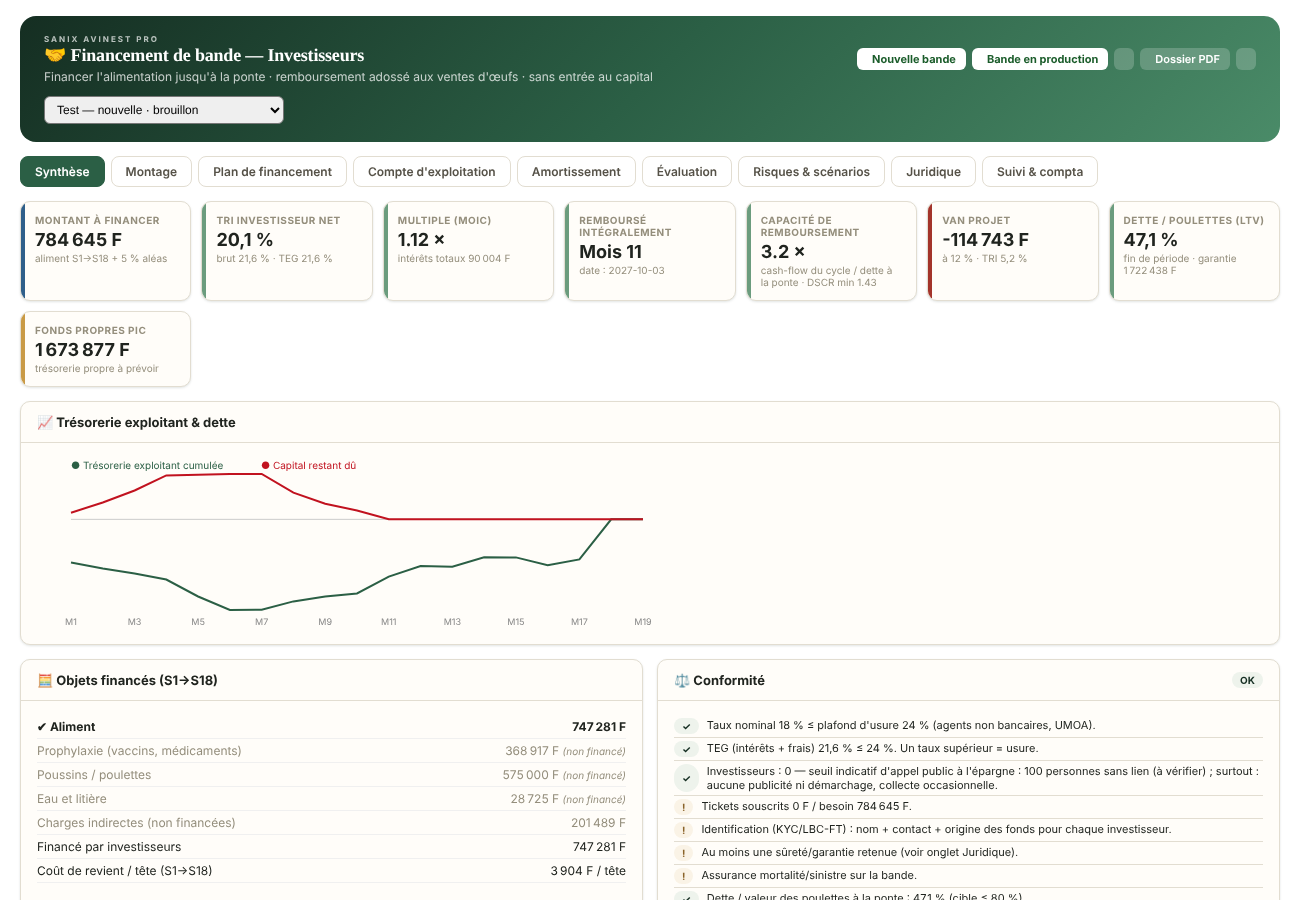
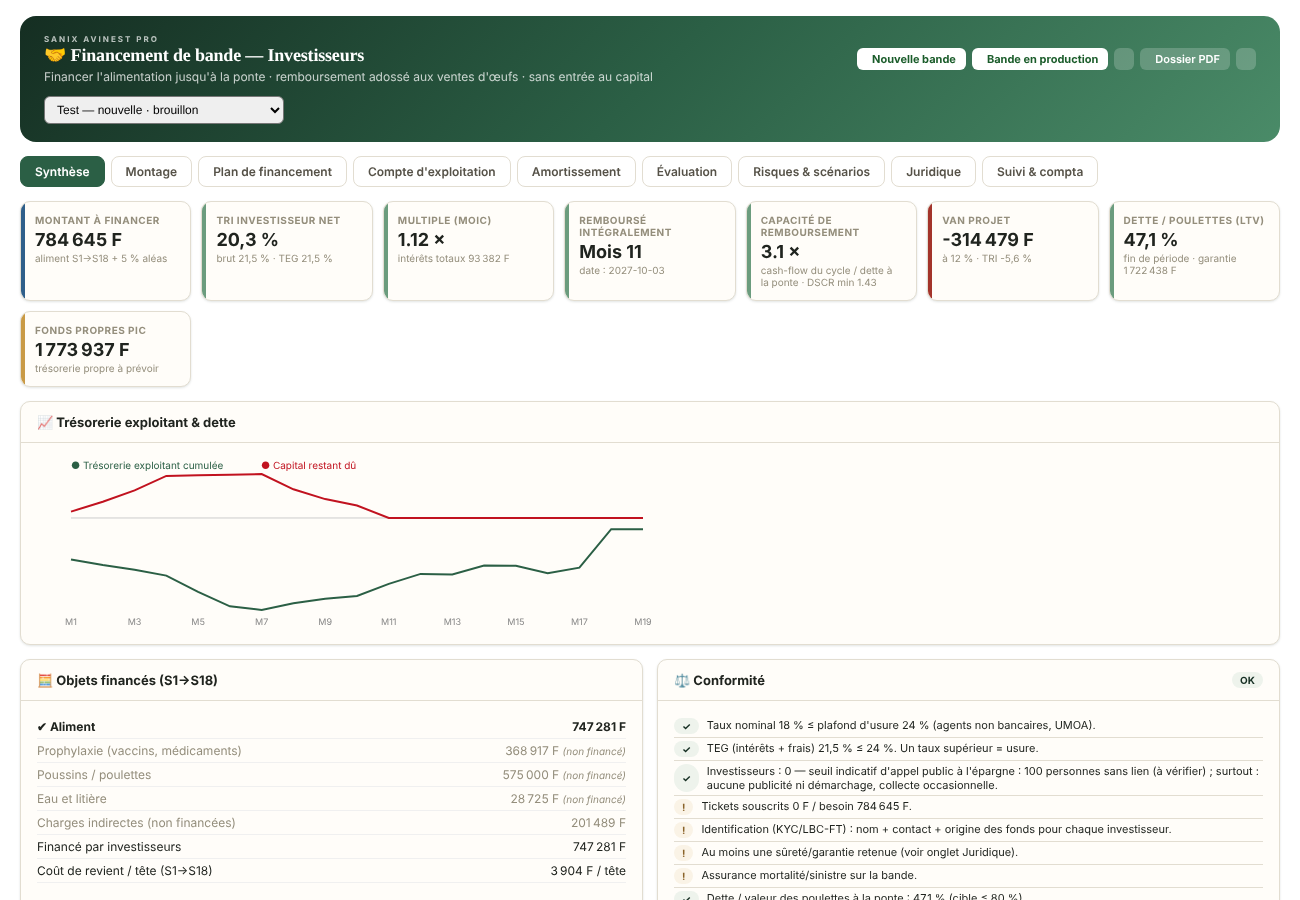
feat(simu,finbande): mix de calibres des œufs selon l'âge de ponte (#13)
* feat(finbande): module Financement de bande par investisseurs (amortissement, évaluation, risques, juridique, compta SYSCOHADA) + besoin de financement dans la Simulation

Claude-Session: https://claude.ai/code/session_01XGyegJwan1hozCysUqiur2

* fix(finbande): collision de nom finTab avec le module Finance (onglets inopérants)

Claude-Session: https://claude.ai/code/session_01XGyegJwan1hozCysUqiur2

* feat(simu): poulette 1150 F et casse 1,5 % (calibrage ferme-jolan)

Claude-Session: https://claude.ai/code/session_01XGyegJwan1hozCysUqiur2

* feat(finance): répartition persistée des ventes sans lot par lot pondeuse (prorata œufs sur 10 j avant livraison), annulable

Claude-Session: https://claude.ai/code/session_01XGyegJwan1hozCysUqiur2

* feat(finbande): financement d'une bande en production (lot réel) + type chair

Portée nouvelle bande / bande en production, pondeuses ou poulet de chair.
Bande en production : projection recalée sur le lot réel (âge, effectif vivant,
ponte et consommation sur 30 j). Noms de dossiers numérotés.

Claude-Session: https://claude.ai/code/session_01XGyegJwan1hozCysUqiur2

* feat(finbande): compte d'exploitation prévisionnel + investissements matériels

Claude-Session: https://claude.ai/code/session_01XGyegJwan1hozCysUqiur2

* feat(simu): prix aliment réels (300-350 F/kg) et âge de réforme paramétrable (défaut 72 sem.)

Claude-Session: https://claude.ai/code/session_01XGyegJwan1hozCysUqiur2
[…]

diff --git a/index.html b/index.html
@@ -23042,6 +23042,8 @@ const SIMU_DEFAULTS = {
   tauxPonteMoy: 85,         // % moyen
   tauxCasse: 1.5,           // % œufs cassés/déclassés (réel ≈ 1,3 %)
   dureeExploitation: 14,    // semaines de ponte exploitées en simu
+  mixCalibres: true,        // pondeuse : calibre des œufs selon l'âge de ponte (petits œufs en début de ponte, moins chers)
+  ratioPetit: 77,           // prix du petit calibre en % du gros (réel : 20 400 / 26 400 F le carton)
   semReforme: 72            // pondeuses : âge de réforme (semaines) — pratique courante 72-80 ; 60 = ancien cycle court
 };
 
@@ -23064,6 +23066,21 @@ const PHASES_LAYER = [
   {id:'reforme',    label:'Réforme',           semDeb:57, semFin:60, icon:'🔄', color:'#fee2e2', border:'#dc2626', feedGPD:108, mortalitePhasePct:0.5,  ponteFactor:0.00}
 ];
 
+// Calibre des œufs : part de petits œufs selon l'âge de la poule (semaine de vie), interpolation linéaire.
+var CAL_PETIT=[[19,0.80],[24,0.60],[28,0.35],[31,0.19],[35,0.04],[39,0.007],[45,0.005]];
+function simuPartPetit(w,p){
+  if(!p||p.mixCalibres===false||p.typeLot!=='layer') return 0;
+  var c=CAL_PETIT; if(w<=c[0][0]) return c[0][1]; if(w>=c[c.length-1][0]) return c[c.length-1][1];
+  for(var i=1;i<c.length;i++){ if(w<=c[i][0]){ var a=c[i-1], b=c[i]; return a[1]+(b[1]-a[1])*(w-a[0])/(b[0]-a[0]); } }
+  return 0;
+}
+// Prix moyen de l'œuf à une semaine donnée (prixOeufUnit = prix du gros calibre)
+function simuPrixOeufSem(p,w){ return p.prixOeufUnit*(1-simuPartPetit(w,p)*(1-(p.ratioPetit||77)/100)); }
+// Prix moyen sur une phase, pondéré par la ponte de chaque semaine
+function simuPrixOeufPhase(p,ph){
+  var sw=0, sp=0; for(var w=ph.semDeb;w<=ph.semFin;w++){ var f=finFactor(w,ph,'lisse')||0; if(f<=0) continue; sw+=f; sp+=f*simuPrixOeufSem(p,w); }
+  return sw>0?sp/sw:p.prixOeufUnit;
+}
 // Cycle pondeuse à durée variable : la phase « ponte soutenue » s'allonge, la réforme occupe les 4 dernières semaines.
 var _phasesLayerCache={};
 function simuPhasesLayer(sr){
@@ -23087,6 +23104,7 @@ function simuCalcBande(p){
   const rows = [];
   let cumCoutDirect = 0, cumCoutIndirect = 0, cumRecette = 0;
   let cumOeufs = 0; // total œufs sur le cycle (pondeuse uniquement)
+  let cumRecOeufs = 0, cumOeufsVendus = 0;
 
   // Coût poussin/poulette différencié par type
   const coutUnitInitial = p.typeLot === 'layer' ? (p.coutPoussineLayer || p.coutPoussin) : p.coutPoussin;
@@ -23175,7 +23193,9 @@ function simuCalcBande(p){
       // Effectif moyen sur la phase pour le calcul d'œufs
       const effectifMoyPonte = (vivantsDebut + vivantsFin) / 2;
       oeufsPhase = Math.round(effectifMoyPonte * nbJours * tauxEffectifPhase);
-      recettePhase = oeufsPhase * (1 - (p.tauxCasse||0)/100) * p.prixOeufUnit; // œufs vendables
+      const prixPh = simuPrixOeufPhase(p, ph);
+      recettePhase = oeufsPhase * (1 - (p.tauxCasse||0)/100) * prixPh; // œufs vendables, prix selon le mix de calibres
+      cumRecOeufs += recettePhase; cumOeufsVendus += oeufsPhase * (1 - (p.tauxCasse||0)/100);
       cumOeufs += oeufsPhase;
     }
 
@@ -23229,7 +23249,7 @@ function simuCalcBande(p){
 
   return {rows, cumCoutDirect, cumCoutIndirect, totalCout, cumRecette, cumOeufs,
     margeBrute, margeNette, tauxMgBrute, tauxMgNette, coutRevientTete, seuilRenta, coutPinit,
-    coutUnitInitial, oeufsParPL, oeufsParPS};
+    coutUnitInitial, oeufsParPL, oeufsParPS, prixMoyenOeuf: cumOeufsVendus>0 ? cumRecOeufs/cumOeufsVendus : p.prixOeufUnit};
 }
 
 // ─── Formatage ───
@@ -23454,7 +23474,9 @@ async function renderSimuBande(ca){
       <div style="grid-column:1/-1;font-size:11px;font-weight:700;color:var(--g1);padding:8px 0 2px;border-bottom:1px solid var(--border);margin-bottom:4px">🏷 Prix de vente (FCFA)</div>
       <div class="fg"><div class="sbl">Prix vif (F/kg)</div><input type="number" id="sp_prixVifKg" value="${p.prixVifKg}" oninput="simuRecalc()"></div>
       <div class="fg"><div class="sbl">Prix carcasse chair (F/kg)</div><input type="number" id="sp_prixCarcasseKg" value="${p.prixCarcasseKg}" oninput="simuRecalc()"></div>
-      <div class="fg"><div class="sbl">Prix œuf (F/unité)</div><input type="number" id="sp_prixOeufUnit" value="${p.prixOeufUnit}" oninput="simuRecalc()"></div>
+      <div class="fg"><div class="sbl">Prix œuf calibre gros (F/unité)</div><input type="number" id="sp_prixOeufUnit" value="${p.prixOeufUnit}" oninput="simuRecalc()"></div>
+      <div class="fg"><div class="sbl">Mix de calibres par âge</div><select id="sp_mixCalibres" onchange="simuRecalc()"><option value="1" ${p.mixCalibres!==false?'selected':''}>Oui (petits œufs en début de ponte)</option><option value="0" ${p.mixCalibres===false?'selected':''}>Non (prix unique)</option></select></div>
+      <div class="fg"><div class="sbl">Prix petit calibre (% du gros)</div><input type="number" id="sp_ratioPetit" value="${p.ratioPetit||77}" min="30" max="100" oninput="simuRecalc()"><div style="font-size:9px;color:var(--text3);margin-top:2px">Réel : petit 56,7 F, gros 73,3 F</div></div>
       <div class="fg"><div class="sbl">Casse / déclassés (%)</div><input type="number" id="sp_tauxCasse" value="${p.tauxCasse??1.5}" min="0" max="20" step="0.1" oninput="simuRecalc()"></div>
 
       <div style="grid-column:1/-1;display:flex;gap:8px;justify-content:flex-end;margin-top:8px">
@@ -23525,6 +23547,7 @@ async function renderSimuBande(ca){
         <div class="kpi kpi-b"><div class="kpi-lbl">Œufs totaux cycle</div><div class="kpi-val" style="color:#7c3aed">${ff(result.cumOeufs)}</div><div class="kpi-sub">sur ${result.rows[result.rows.length-1].ph.semFin} semaines</div></div>
         <div class="kpi kpi-g"><div class="kpi-lbl">Œufs / PL logée</div><div class="kpi-val">${ff(result.oeufsParPL)}</div><div class="kpi-sub">référence : 280–320 / ISA</div></div>
         <div class="kpi kpi-a"><div class="kpi-lbl">Coût / œuf produit</div><div class="kpi-val">${fp(result.totalCout/Math.max(1,result.cumOeufs))} F</div><div class="kpi-sub">toutes charges</div></div>
+        <div class="kpi kpi-b"><div class="kpi-lbl">Prix moyen de l'œuf</div><div class="kpi-val">${fp(result.prixMoyenOeuf)} F</div><div class="kpi-sub">${p.mixCalibres!==false?'mix de calibres · gros '+ff(p.prixOeufUnit)+' F':'prix unique'}</div></div>
         <div class="kpi ${result.margeNette/Math.max(1,result.cumOeufs)>=0?'kpi-g':'kpi-r'}"><div class="kpi-lbl">Marge / œuf</div><div class="kpi-val">${fp(result.margeNette/Math.max(1,result.cumOeufs))} F</div><div class="kpi-sub">prix vente ${ff(p.prixOeufUnit)} F/u</div></div>
         <div class="kpi kpi-b"><div class="kpi-lbl">Réforme</div><div class="kpi-val">${ff(result.rows.find(r=>r.ph.id==='reforme')?.vivantsFin||0)}</div><div class="kpi-sub">poules · ${p.poidsReformeKg||1.9}kg · ${ff(p.prixReformeKg||1200)}F/kg</div></div>
         <div class="kpi kpi-a"><div class="kpi-lbl">Mortalité totale</div><div class="kpi-val" style="color:var(--red)">${ff(p.nbBetes-(result.rows[result.rows.length-1]?.vivantsFin||0))}</div><div class="kpi-sub">${fp((p.nbBetes-(result.rows[result.rows.length-1]?.vivantsFin||0))/p.nbBetes*100)}% du lot</div></div>
@@ -24410,6 +24433,8 @@ function simuGetCurrentParams(){
     prixVifKg:         read('sp_prixVifKg'),
     prixCarcasseKg:    read('sp_prixCarcasseKg'),
     prixOeufUnit:      read('sp_prixOeufUnit'),
+    mixCalibres:       document.getElementById('sp_mixCalibres') ? document.getElementById('sp_mixCalibres').value!=='0' : true,
+    ratioPetit:        read('sp_ratioPetit'),
     tauxCasse:         read('sp_tauxCasse')
   };
 }
@@ -24693,7 +24718,7 @@ function finWeekly(p, courbe){
         lit:first?r.coutLitierePhase:0, indir:r.coutIndirectPhase/n,
         mo:r.coutMainPhase/n, en:r.coutEnergiePhase/n, am:r.coutAmortPhase/n, tr:r.coutTransportPhase/n, dv:r.coutDiversPhase/n,
         elev:(p.typeLot==='layer'&&w<FIN_SEM_PONTE_DEBUT),
-        oeufs:oeufs, recOeufs:oeufs*(1-(p.tauxCasse||0)/100)*p.prixOeufUnit,
+        oeufs:oeufs, recOeufs:oeufs*(1-(p.tauxCasse||0)/100)*simuPrixOeufSem(p,w),
         recRef:((ph.id==='reforme'||ph.id==='abattage')&&i===n-1)?r.recettePhase:0});
     }
   });
@@ -24777,7 +24802,7 @@ function finRun(f, m){
   f.semPonte=Math.max(1,Math.round(+f.semPonte||1)); // borne : évite rows[-1]
   var typeLot=f.typeLot==='broiler'?'broiler':'layer';
   var p0=Object.assign({},SIMU_DEFAULTS,f.simu||{},{typeLot:typeLot}), p=Object.assign({},p0);
-  if(m.oeuf) p.prixOeufUnit*=m.oeuf;
+  if(m.oeuf) p.prixOeufUnit*=m.oeuf; // le petit calibre suit (ratio du prix du gros)
   if(m.ponte) p.tauxPonteMoy=Math.min(98,p.tauxPonteMoy*m.ponte);
   if(m.alim){ p.coutAlimentD*=m.alim; p.coutAlimentC*=m.alim; p.coutAlimentP*=m.alim; }
   if(m.mort) p.tauxMortalite=Math.min(60,p.tauxMortalite*m.mort);
@@ -24808,7 +24833,7 @@ function finRun(f, m){
   var tEnd=Math.min(T,finMonth(W[W.length-1].wr)+lag), imm=finImmos(f,T,tEnd);
   var OB=finObjets(f), cobj={aliment:0,prophylaxie:0,poussin:0,eau:0,construction:0,materiel:0,autres:0}, fobj={aliment:0,prophylaxie:0,poussin:0,eau:0,construction:0,materiel:0,autres:0}, autresM=[];
   for(i=0;i<=T+1;i++) autresM[i]=0;
-  var oeufsTot=0, det={alim:0,poussin:0,vacc:0,med:0,eau:0,indir:0}, coutFut=0;
+  var recOtot=0, oeufsTot=0, det={alim:0,poussin:0,vacc:0,med:0,eau:0,indir:0}, coutFut=0;
   W.forEach(function(x){
     var mi=finMonth(x.wr); coutFut+=x.alim+x.poussin+x.vacc+x.med+x.eau+x.lit+x.indir;
     opex[mi]+=x.alim+x.poussin+x.vacc+x.med+x.eau+x.lit+x.indir-(x.am||0); // amortissement = charge non décaissée
@@ -24818,7 +24843,7 @@ function finRun(f, m){
       var fa={aliment:x.alim,prophylaxie:x.vacc+x.med,poussin:x.poussin,eau:x.eau+x.lit};
       Object.keys(fa).forEach(function(k){ if(OB[k]){ fin[mi]+=fa[k]; fobj[k]+=fa[k]; } });
     }
-    rev[mi+lag]+=x.recOeufs+x.recRef; oeufsTot+=x.oeufs;
+    rev[mi+lag]+=x.recOeufs+x.recRef; oeufsTot+=x.oeufs; recOtot+=x.recOeufs;
   });
   // Investissements « à acquérir » et frais libres : financés au mois de leur décaissement
   imm.det.forEach(function(d){ if(!d.neuf) return; cobj[d.cls]+=d.val; if(OB[d.cls]){ fin[d.mc]+=d.val; fobj[d.cls]+=d.val; } });
@@ -24903,7 +24928,8 @@ function finRun(f, m){
     dscrMin:dscrMin, dscrAvg:dscrAvg, cov:cov, capac:capac, dStart:dStart, fullMonth:fullMonth, soldeFin:soldeFin, soldeContrat:soldeContrat, minCash:minCash, cashFin:cum,
     ltv:valPoulettes>0?debtAtPonte/valPoulettes:null, debtAtPonte:debtAtPonte, valPoulettes:valPoulettes,
     coutPoulette:wP.vivants>0?coutPre/wP.vivants:0, oeufsTot:oeufsTot, coutOeuf:oeufsTot>0?(f.portee==='production'?coutFut:wk.res.totalCout)/oeufsTot:0,
-    margeOeuf:oeufsTot>0?p.prixOeufUnit*(1-(p.tauxCasse||0)/100)-(f.portee==='production'?coutFut:wk.res.totalCout)/oeufsTot:0, det:det, warn:warn, typeLot:typeLot, bfrPic:-minB, autresM:autresM, objets:FIN_OBJETS.map(function(x){ return {k:x[0],lbl:x[1],on:!!OB[x[0]],cout:cobj[x[0]],montant:fobj[x[0]]}; }), groups:groups, heter:heter, imm:imm, dotPoule:dotPoule, immoP:immoP, vncRes:vncRes, capCost:immoP?capCost:0, ivN:ivN, ivB:ivB};
+    prixMoyen:oeufsTot>0?recOtot/(oeufsTot*(1-(p.tauxCasse||0)/100)):p.prixOeufUnit,
+    margeOeuf:oeufsTot>0?recOtot/oeufsTot-(f.portee==='production'?coutFut:wk.res.totalCout)/oeufsTot:0, det:det, warn:warn, typeLot:typeLot, bfrPic:-minB, autresM:autresM, objets:FIN_OBJETS.map(function(x){ return {k:x[0],lbl:x[1],on:!!OB[x[0]],cout:cobj[x[0]],montant:fobj[x[0]]}; }), groups:groups, heter:heter, imm:imm, dotPoule:dotPoule, immoP:immoP, vncRes:vncRes, capCost:immoP?capCost:0, ivN:ivN, ivB:ivB};
 }
 
 // ── Compte d'exploitation prévisionnel (présentation SYSCOHADA : soldes intermédiaires de gestion), en comptabilité d'engagement ──
@@ -25100,6 +25126,7 @@ async function finRefresh(){ var ca=document.getElementById('contentArea'); if(c
 window.finSet=async function(k,v,num){ var r=window._fb.rec; if(!r) return; r[k]=num?(parseFloat(v)||0):v; await finSave(r); finRefresh(); };
 window.finSetBool=async function(k,v){ var r=window._fb.rec; r[k]=!!v; await finSave(r); finRefresh(); };
 window.finSetG=async function(k,v){ var r=window._fb.rec; r.garanties=r.garanties||{}; r.garanties[k]=!!v; await finSave(r); finRefresh(); };
+window.finSetSimuBool=async function(k,v){ var r=window._fb.rec; r.simu=Object.assign({},r.simu); r.simu[k]=!!v; await finSave(r); finRefresh(); };
 window.finSetSimu=async function(k,v){ var r=window._fb.rec; r.simu=r.simu||{}; r.simu[k]=parseFloat(v)||0; await finSave(r); finRefresh(); };
 window.fbTab=function(t){ window._fb.tab=t; finRefresh(); };
 window.finPick=function(id){ window._fb.id=parseInt(id)||null; window._fb.mc=null; finRefresh(); };
@@ -25343,7 +25370,7 @@ function finTabMontage(f,E){
     +(f.typeLot==='broiler'
       ?finSimIn('Poussin chair (F)','coutPoussin',s.coutPoussin)+finSimIn('Poids vif abattage (kg)','poidsMoyenVif',s.poidsMoyenVif,0.05)+finSimIn('Rendement carcasse (%)','rendCarcasse',s.rendCarcasse,0.5)+finSimIn('Prix carcasse (F/kg)','prixCarcasseKg',s.prixCarcasseKg)
         +finSimIn('Aliment démarrage (F/kg)','coutAlimentD',s.coutAlimentD)+finSimIn('Aliment croissance (F/kg)','coutAlimentC',s.coutAlimentC)
-      :finSimIn('Taux ponte pic (%)','tauxPonteMoy',s.tauxPonteMoy,0.5)+finSimIn('Prix œuf (F)','prixOeufUnit',s.prixOeufUnit)+finSimIn('Casse (%)','tauxCasse',s.tauxCasse==null?1.5:s.tauxCasse,0.1)+finSimIn('Âge de réforme (sem.)','semReforme',s.semReforme||72,1)+finSimIn('Poulette J0 (F)','coutPoussineLayer',s.coutPoussineLayer)
+      :finSimIn('Taux ponte pic (%)','tauxPonteMoy',s.tauxPonteMoy,0.5)+finSimIn('Prix œuf calibre gros (F)','prixOeufUnit',s.prixOeufUnit)+finChk('Mix de calibres par âge de ponte','mixCalibres',s.mixCalibres!==false,'finSetSimuBool')+finSimIn('Petit calibre (% du prix du gros)','ratioPetit',s.ratioPetit||77,1)+finSimIn('Casse (%)','tauxCasse',s.tauxCasse==null?1.5:s.tauxCasse,0.1)+finSimIn('Âge de réforme (sem.)','semReforme',s.semReforme||72,1)+finSimIn('Poulette J0 (F)','coutPoussineLayer',s.coutPoussineLayer)
         +finSimIn('Aliment démarrage (F/kg)','coutAlimentD',s.coutAlimentD)+finSimIn('Aliment croissance (F/kg)','coutAlimentC',s.coutAlimentC)+finSimIn('Aliment ponte (F/kg)','coutAlimentP',s.coutAlimentP)
         +finSel('Courbe de ponte','courbe',f.courbe,[['lisse','Réaliste (lissée)'],['simu','Identique Simulation (paliers)']]))
     +finIn('Délai encaissement (mois)','delaiEncaiss',f.delaiEncaiss,1)+finIn('Valeur de marché du cheptel (F/tête)','prixPoulette',f.prixPoulette)
@@ -25444,7 +25471,7 @@ function finTabEvaluation(f,E){
     +'<div class="card"><div class="card-hd">🏭 Projet (bande, avant financement)</div><div class="card-bd"><table class="tbl"><tbody>'
     +row('VAN @ '+f.tauxActu+' %',finM(E.npv),'flux mensuels sur le cycle')+row('TRI projet (annualisé)',finPc(E.irrProj))
     +row('Indice de profitabilité',E.pi==null?'—':E.pi.toFixed(2),'VA entrées / VA sorties')+row('Investissement pic (cumul)',finM(E.peakInvest))
-    +row('Délai de récupération',E.payback?'Mois '+E.payback:'—')+row('Coût de revient / œuf',E.coutOeuf.toFixed(1)+' F','prix vente '+ff(E.p.prixOeufUnit)+' F')
+    +row('Délai de récupération',E.payback?'Mois '+E.payback:'—')+row('Coût de revient / œuf',E.coutOeuf.toFixed(1)+' F','prix moyen de vente '+E.prixMoyen.toFixed(1)+' F (gros : '+ff(E.p.prixOeufUnit)+' F)')
     +row('Marge nette / œuf',E.margeOeuf.toFixed(1)+' F')+row('Œufs sur le cycle',ff(E.oeufsTot))+'</tbody></table></div></div>'
     +'<div class="card"><div class="card-hd">🤝 Investisseurs</div><div class="card-bd"><table class="tbl"><tbody>'
     +row('Capital engagé',finM(E.tirTotal))+row('Intérêts totaux (courus)',finM(E.intTot))+row('Frais de dossier perçus',finM(E.frais))
